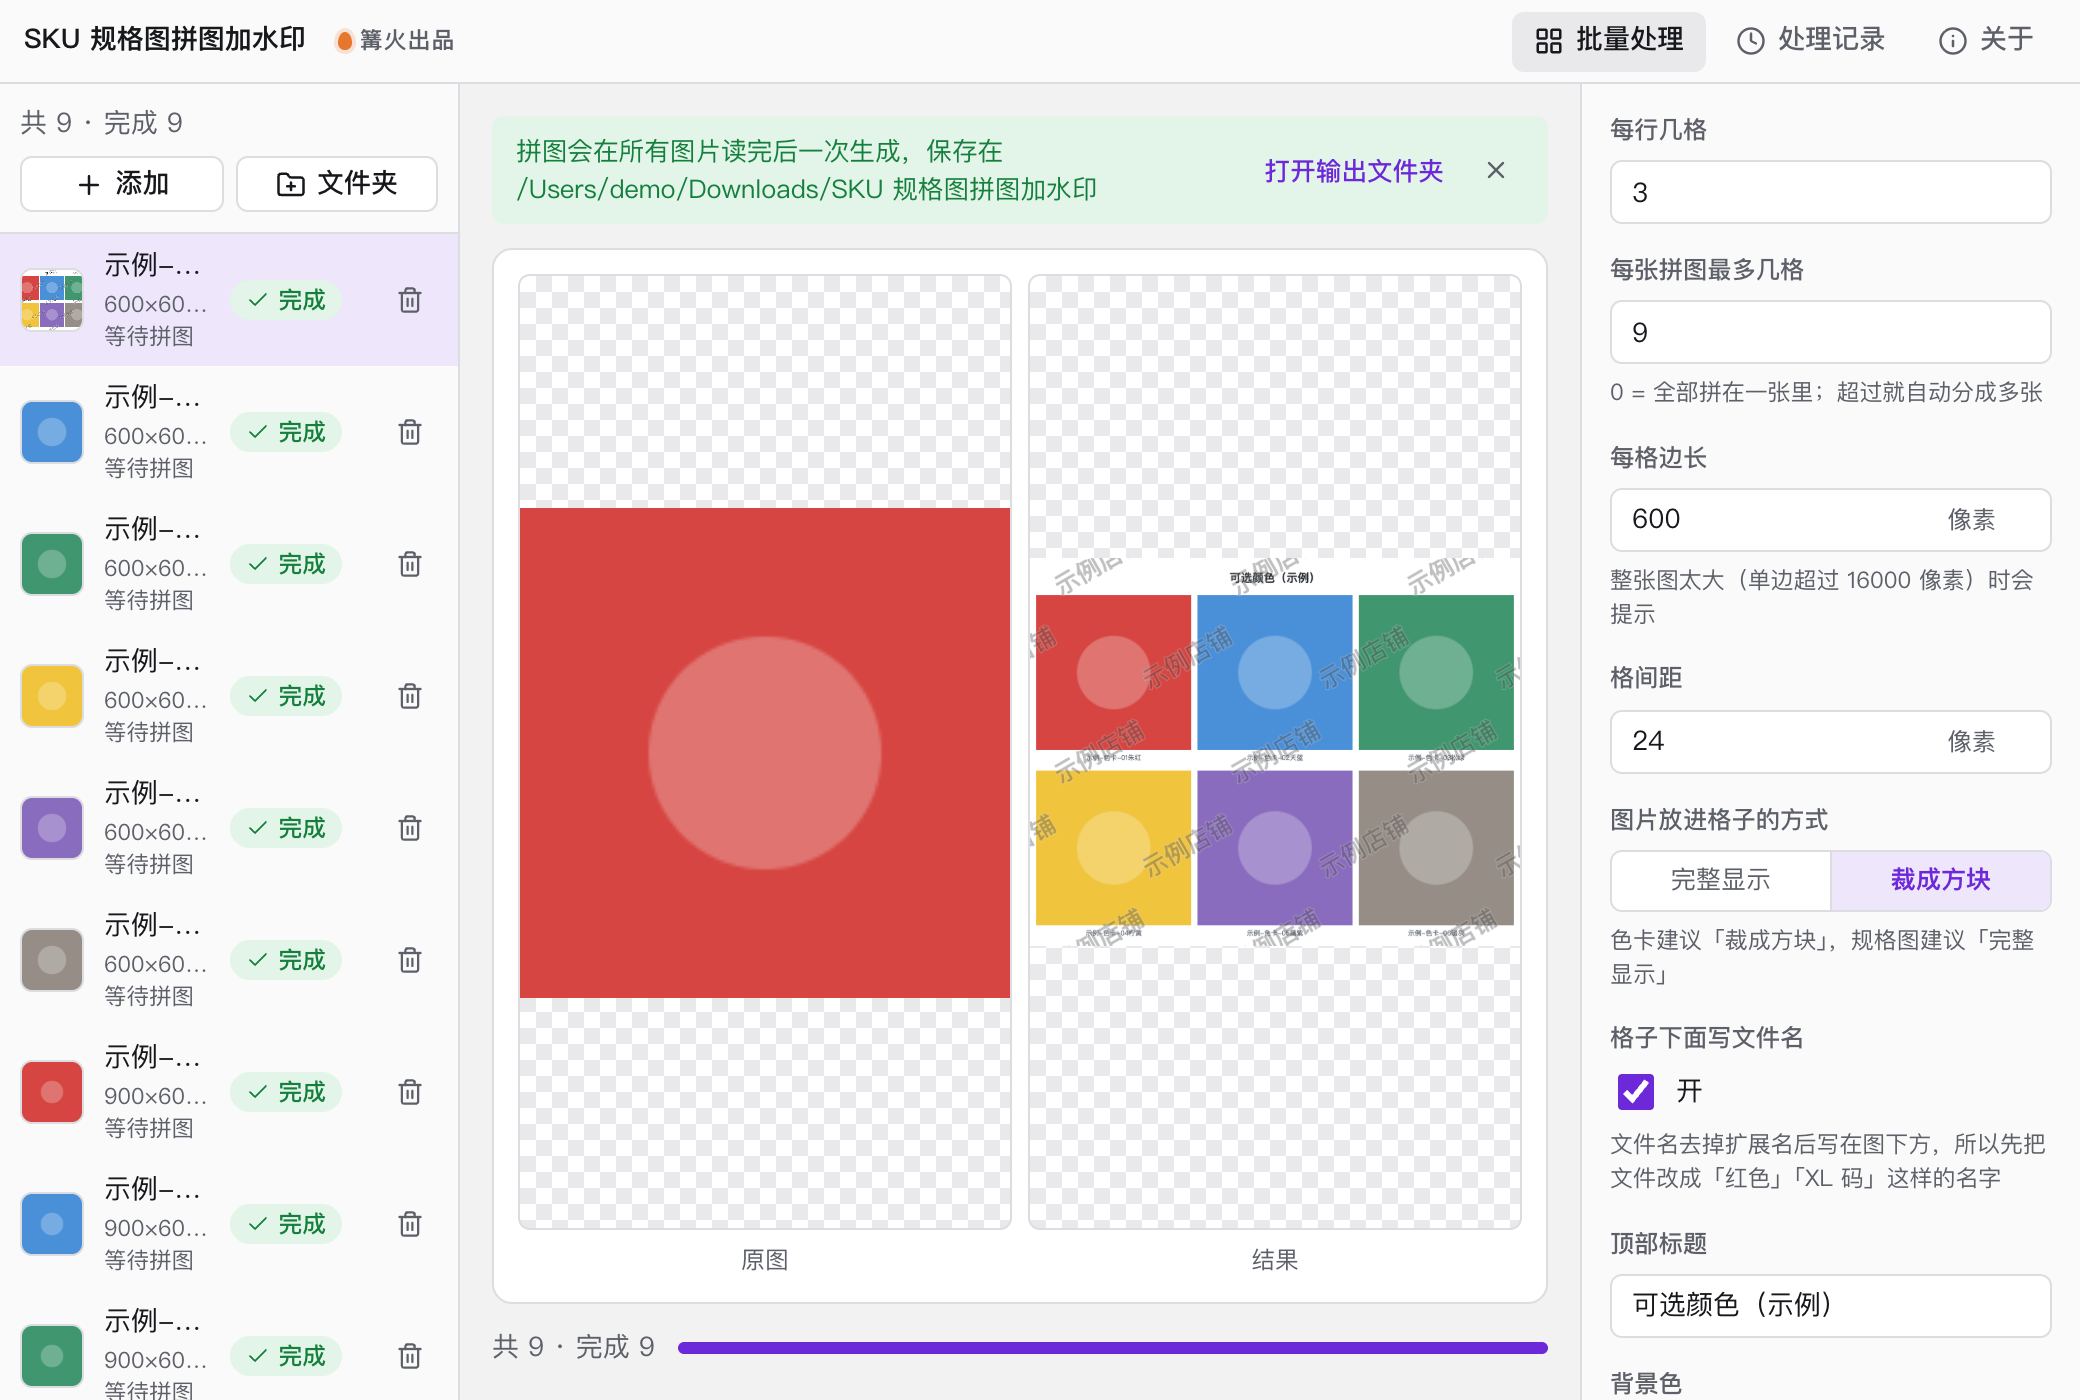
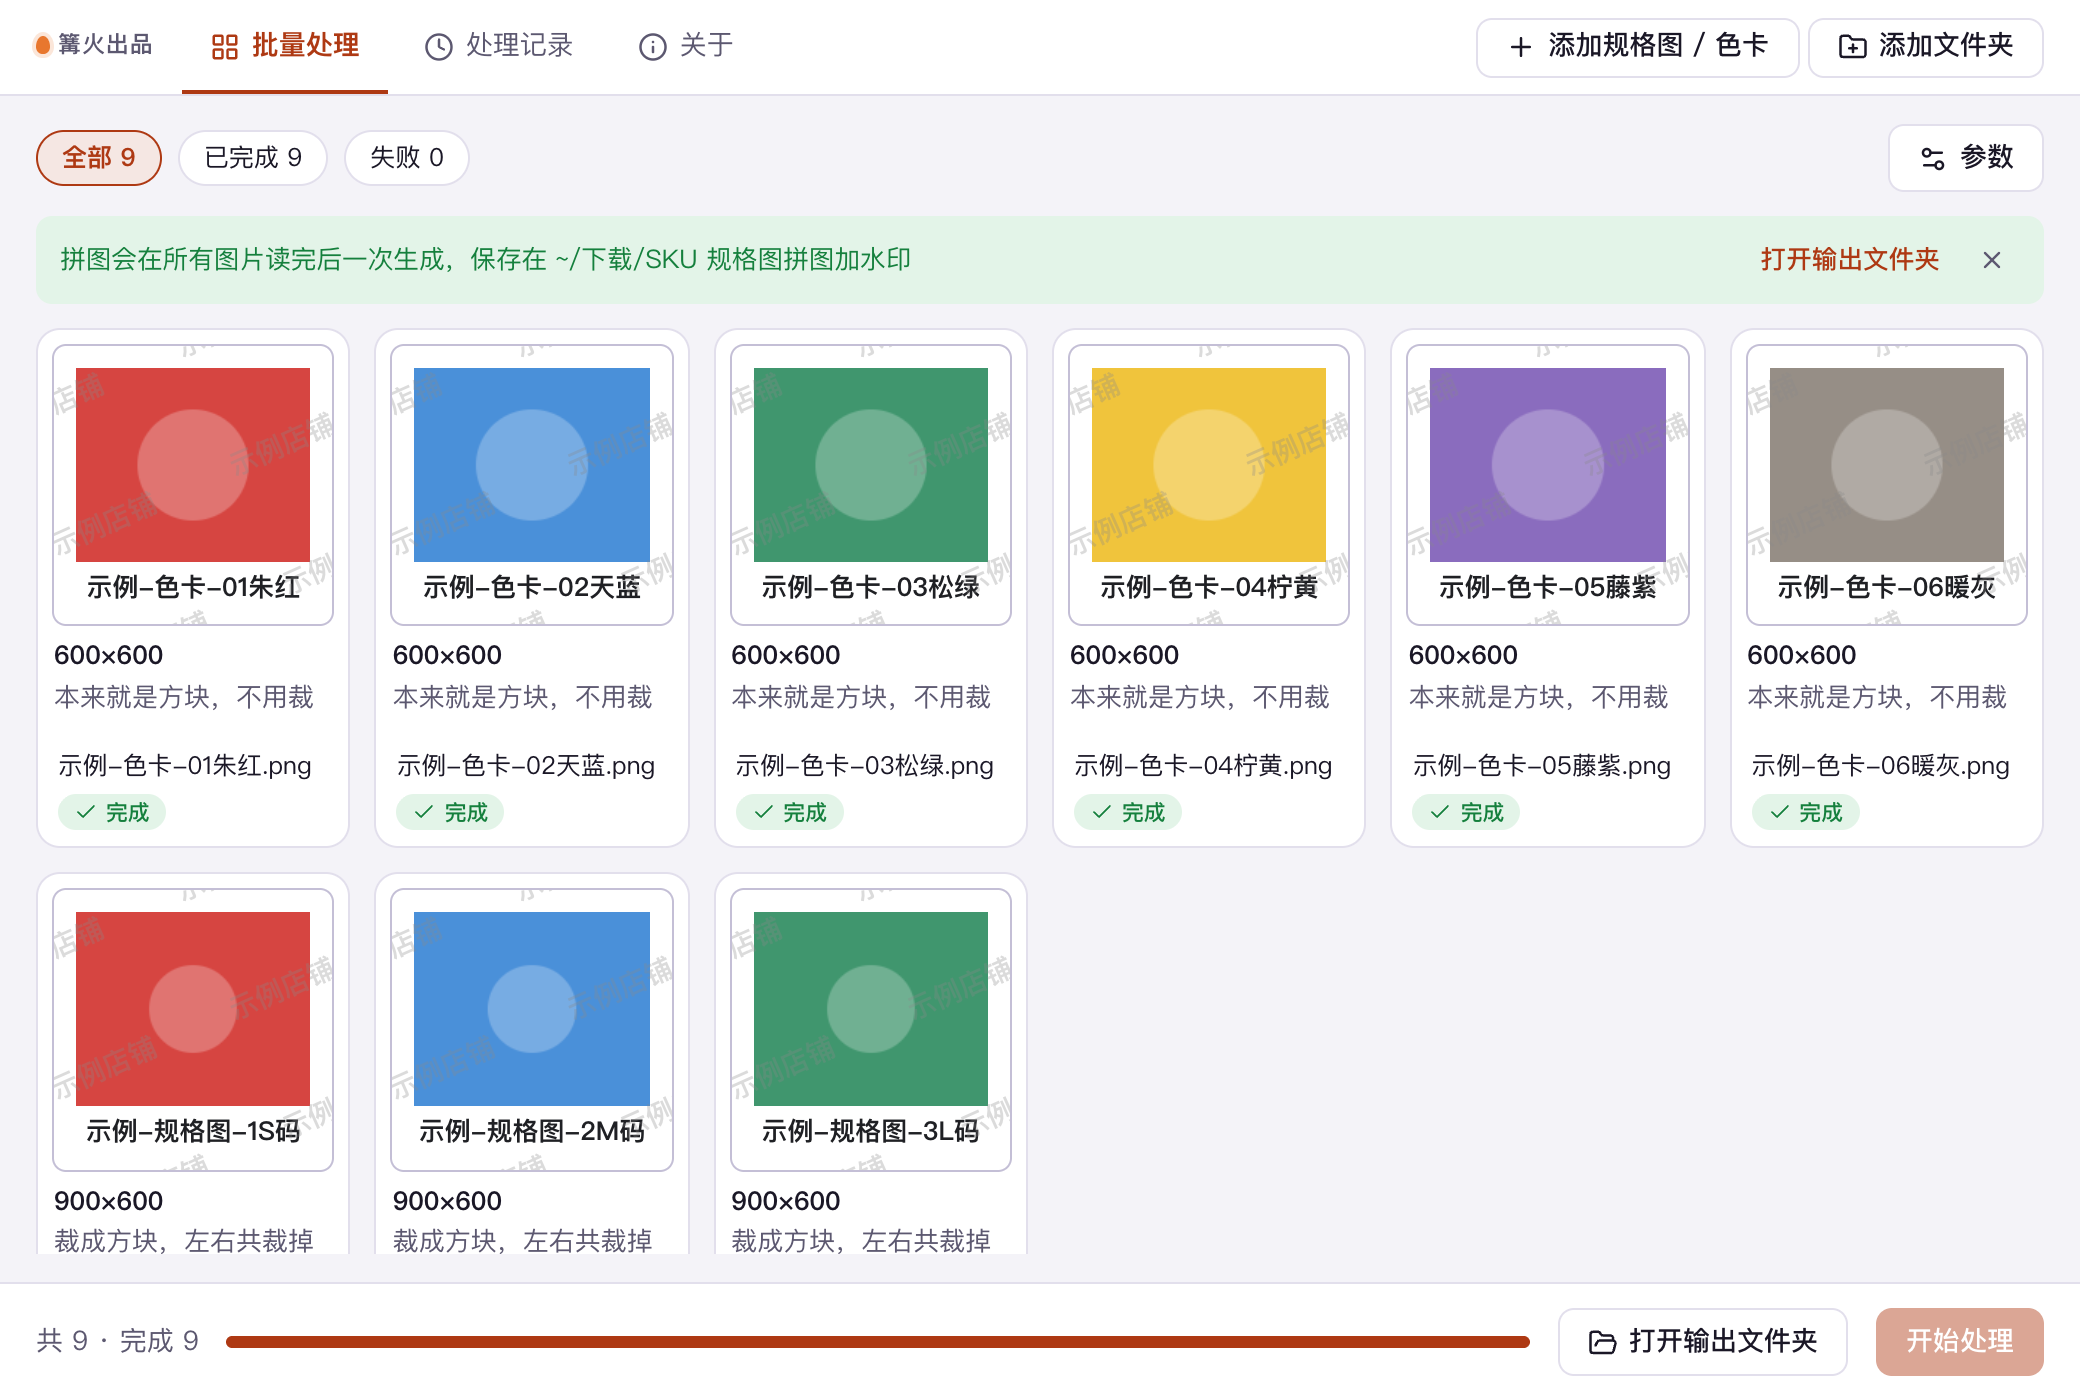
打磨界面：格子预览结果卡片、专属空状态、全中文 (0.2.0)

diff --git a/src/tool/ui.tsx b/src/tool/ui.tsx
@@ -1,0 +1,82 @@
+// 界面：空状态（一堆散图 → 一张带文件名和水印的拼图）和单张结果（这张图放进格子后的样子）。
+import { ArrowRight } from 'lucide-react';
+import type { InputItem, ItemResult } from '../kit/types';
+import { fileSrc } from '../kit/platform';
+import { SAMPLE_WATERMARK, SWATCHES } from './sample';
+import './tool.css';
+
+/** 随结果带出的明细，只用来画结果，不写入文件 */
+export interface CellData {
+  w: number;
+  h: number;
+  fit: 'contain' | 'cover';
+  caption: boolean;
+  bg: string;
+  wm: 'none' | 'text' | 'image';
+  wmText: string;
+  wmPosition: string;
+  wmOpacity: number;
+}
+
+const nameOf = (n: string) => n.replace(/\.[^.]+$/, '');
+const dark = (hex: string) => {
+  const v = parseInt(hex.slice(1), 16);
+  return ((v >> 16) * 299 + ((v >> 8) & 255) * 587 + (v & 255) * 114) / 1000 < 110;
+};
+
+export function Empty() {
+  const rgb = (c: [number, number, number]) => `rgb(${c.join(',')})`;
+  return (
+    <div className="sc-empty">
+      <div className="sc-empty-hd">
+        <h2>几张色卡规格图，拼成一张带名字的图</h2>
+        <p>按列表顺序排成网格，每格下面写文件名，再整张盖上水印；一张放不下就自动分成多张。</p>
+      </div>
+      <div className="sc-flow" aria-hidden="true">
+        <div className="sc-pile">
+          {SWATCHES.slice(0, 4).map((s, i) => (
+            <span key={s.name} className="sc-card" style={{ background: rgb(s.rgb), ['--i' as string]: i }} />
+          ))}
+        </div>
+        <ArrowRight size={22} className="sc-arrow" />
+        <div className="sc-sheet">
+          <b className="sc-sheet-title">可选颜色</b>
+          <div className="sc-grid">
+            {SWATCHES.map((s) => (
+              <span key={s.name} className="sc-slot"><i style={{ background: rgb(s.rgb) }} /><small>{s.name}</small></span>
+            ))}
+          </div>
+          <span className="sc-mark">{SAMPLE_WATERMARK}</span>
+        </div>
+      </div>
+    </div>
+  );
+}
+
+const MARK_POS: Record<string, string> = {
+  br: 'right: 6%; bottom: 6%', bl: 'left: 6%; bottom: 6%', tr: 'right: 6%; top: 6%', tl: 'left: 6%; top: 6%',
+  center: 'left: 50%; top: 50%; transform: translate(-50%, -50%)',
+};
+const posStyle = (p: string) => Object.fromEntries((MARK_POS[p] ?? MARK_POS.br).split('; ').map((s) => s.split(': '))) as React.CSSProperties;
+
+export function ResultBody({ item, result }: { item: InputItem; result: ItemResult }) {
+  const d = result.data as CellData | undefined;
+  if (!d) return <p className="sc-plain">{result.summary}</p>;
+  const long = Math.max(d.w, d.h);
+  const cut = Math.round((1 - Math.min(d.w, d.h) / long) * 100);
+  const how = d.fit === 'cover'
+    ? (cut > 0 ? `裁成方块，${d.w > d.h ? '左右' : '上下'}共裁掉 ${cut}%` : '本来就是方块，不用裁')
+    : (cut > 0 ? `完整显示，${d.w > d.h ? '上下' : '左右'}留空` : '完整显示，正好填满');
+  const light = !dark(d.bg);
+  return (
+    <figure className="sc-cell">
+      <div className="sc-cell-box" style={{ background: d.bg, color: light ? '#1F2024' : '#F3F4F6' }}>
+        <span className="sc-cell-img">{item.path && <img src={fileSrc(item.path)} alt="" style={{ objectFit: d.fit }} />}</span>
+        {d.caption && <span className="sc-cell-cap">{nameOf(item.name)}</span>}
+        {d.wm === 'text' && d.wmText && d.wmPosition !== 'tile' && <span className="sc-cell-mark" style={{ ...posStyle(d.wmPosition), opacity: d.wmOpacity / 100 }}>{d.wmText}</span>}
+        {d.wm === 'text' && d.wmText && d.wmPosition === 'tile' && <span className="sc-cell-tile" style={{ opacity: d.wmOpacity / 100 }}>{Array.from({ length: 6 }, (_, i) => <i key={i}>{d.wmText}</i>)}</span>}
+      </div>
+      <figcaption><b className="k-num">{d.w}×{d.h}</b><span className="k-muted">{how}</span></figcaption>
+    </figure>
+  );
+}

diff --git a/src/tool/tool.css b/src/tool/tool.css
@@ -1,0 +1,26 @@
+/* SKU 规格图拼图加水印：类名统一以 sc- 开头，只用 kit.css 的变量 */
+.sc-empty { display: flex; flex-direction: column; gap: 22px; padding: 26px 24px; background: var(--surface); border: 1px solid var(--line); border-radius: var(--radius-lg); }
+.sc-empty-hd h2 { margin: 0 0 6px; font-size: 1.4em; line-height: 1.3; color: var(--ink); }
+.sc-empty-hd p { margin: 0; color: var(--muted); line-height: 1.6; }
+.sc-flow { display: flex; align-items: center; justify-content: center; gap: 26px; flex-wrap: wrap; }
+.sc-arrow { color: var(--primary); flex: none; }
+.sc-pile { position: relative; width: 120px; height: 120px; }
+.sc-card { position: absolute; left: calc(var(--i) * 16px); top: calc(var(--i) * 10px); width: 64px; height: 64px; border-radius: 8px; border: 3px solid var(--surface); box-shadow: 0 4px 12px rgb(0 0 0 / .18); transform: rotate(calc(var(--i) * 5deg - 8deg)); }
+.sc-sheet { position: relative; padding: 12px 14px 32px; background: var(--chip); border: 1px solid var(--line-strong); border-radius: 8px; box-shadow: 0 8px 20px rgb(0 0 0 / .1); overflow: hidden; }
+.sc-sheet-title { display: block; margin-bottom: 8px; font-size: 13px; color: var(--ink); }
+.sc-grid { display: grid; grid-template-columns: repeat(3, 56px); gap: 8px 10px; }
+.sc-slot { display: flex; flex-direction: column; align-items: center; gap: 3px; }
+.sc-slot i { display: block; width: 56px; height: 56px; border-radius: 4px; }
+.sc-slot small { font-size: 12.5px; color: var(--ink); }
+.sc-mark { position: absolute; right: 12px; bottom: 7px; font-size: 14px; font-weight: 700; color: var(--primary); opacity: .55; }
+
+.sc-cell { margin: 0; display: flex; flex-direction: column; gap: 6px; width: 100%; }
+.sc-cell-box { position: relative; aspect-ratio: 1; display: flex; flex-direction: column; padding: 8%; gap: 4%; overflow: hidden; border-radius: 6px; box-shadow: 0 0 0 1px var(--line-strong); }
+.sc-cell-img { flex: 1; min-height: 0; display: block; }
+.sc-cell-img img { display: block; width: 100%; height: 100%; }
+.sc-cell-cap { flex: none; text-align: center; font-size: 13px; font-weight: 600; line-height: 1.2; overflow: hidden; text-overflow: ellipsis; white-space: nowrap; }
+.sc-cell-mark { position: absolute; font-size: 14px; font-weight: 700; white-space: nowrap; color: #888; }
+.sc-cell-tile { position: absolute; inset: -20%; display: grid; grid-template-columns: repeat(2, 1fr); align-content: space-around; justify-items: center; transform: rotate(-24deg); pointer-events: none; }
+.sc-cell-tile i { font-style: normal; font-size: 14px; font-weight: 700; color: #888; white-space: nowrap; }
+.sc-cell figcaption { display: flex; flex-direction: column; gap: 1px; font-size: 13px; }
+.sc-plain { margin: 0; color: var(--muted); }

diff --git a/src/tool/index.ts b/src/tool/index.ts
@@ -2,6 +2,7 @@
 import { LayoutGrid as LayoutGridAsIcon } from 'lucide-react';
 import type { BatchTool } from '../kit/types';
 import { composeAll, optionProblem, readOptions } from './flow';
+import { Empty, ResultBody, type CellData } from './ui';
 import { drawSheet, encodeCanvas, loadImage } from './render';
 
 const IMAGE_EXT = ['jpg', 'jpeg', 'png', 'webp', 'bmp', 'gif'];
@@ -15,6 +16,8 @@ const tool: BatchTool = {
   type: 'media',
   mode: 'batch',
   resultView: 'list',
+  Empty,
+  ResultBody,
   concurrency: 3,
   accept: { label: '规格图 / 色卡', extensions: IMAGE_EXT },
   params: [
@@ -23,7 +26,7 @@ const tool: BatchTool = {
     { key: 'cell', label: '每格边长', type: 'number', default: 600, min: 200, max: 1600, unit: '像素', help: '整张图太大（单边超过 16000 像素）时会提示' },
     { key: 'gap', label: '格间距', type: 'number', default: 24, min: 0, max: 120, unit: '像素' },
     { key: 'fit', label: '图片放进格子的方式', type: 'segment', options: [['contain', '完整显示'], ['cover', '裁成方块']], default: 'contain', help: '色卡建议「裁成方块」，规格图建议「完整显示」' },
-    { key: 'caption', label: '格子下面写文件名', type: 'toggle', default: true, help: '文件名去掉扩展名后写在图下方，所以先把文件改成「红色」「XL 码」这样的名字' },
+    { key: 'caption', label: '格子下面写文件名', type: 'toggle', default: true, help: '文件名去掉扩展名后写在图下方，所以先把文件改成「红色」「大码」这样的名字' },
     { key: 'title', label: '顶部标题', type: 'text', default: '', placeholder: '可选，例如：可选颜色' },
     { key: 'bg', label: '背景色', type: 'segment', options: [['#FFFFFF', '白色'], ['#F3F4F6', '浅灰'], ['#1F2024', '深色']], default: '#FFFFFF' },
     { key: 'wm', label: '水印', type: 'segment', options: [['none', '不加'], ['text', '文字'], ['image', '图片']], default: 'text' },
@@ -43,7 +46,9 @@ const tool: BatchTool = {
     const bad = optionProblem(readOptions(ctx.params));
     if (bad) throw new Error(bad);
     const img = await loadImage(await ctx.readFile(item.path!));
-    return { preview: item.path, summary: `${img.naturalWidth}×${img.naturalHeight}，等待拼图` };
+    const o = readOptions(ctx.params);
+    const data: CellData = { w: img.naturalWidth, h: img.naturalHeight, fit: o.fit, caption: o.caption, bg: o.bg, wm: o.wm, wmText: o.wmText, wmPosition: o.wmPosition, wmOpacity: o.wmOpacity };
+    return { preview: item.path, summary: `${img.naturalWidth}×${img.naturalHeight}，等待拼图`, data };
   },
 
   async afterAll(results, ctx) {

diff --git a/src/tool/preview.ts b/src/tool/preview.ts
@@ -3,6 +3,7 @@ import type { Params } from '../kit/types';
 import type { Row } from '../kit/runner';
 import { layoutFor, readOptions } from './flow';
 import { drawSheet } from './render';
+import type { CellData } from './ui';
 import { SAMPLE_WATERMARK, SWATCHES } from './sample';
 
 function swatchCanvas(rgb: [number, number, number], round = false) {
@@ -28,6 +29,8 @@ function realSheet() {
 
 const NAMES = [...SWATCHES.map((s, i) => `示例-色卡-${String(i + 1).padStart(2, '0')}${s.name}.png`), '示例-规格图-1S码.png', '示例-规格图-2M码.png', '示例-规格图-3L码.png'];
 
+const cell = (_name: string, i: number): CellData => ({ w: i < 6 ? 600 : 900, h: 600, fit: 'cover', caption: true, bg: '#FFFFFF', wm: 'text', wmText: SAMPLE_WATERMARK, wmPosition: 'tile', wmOpacity: 30 });
+
 export const rows = (state: string): Row[] => {
   if (state === 'empty') return [];
   return NAMES.map((name, i) => {
@@ -37,10 +40,10 @@ export const rows = (state: string): Row[] => {
       item: { id: `s${i}`, name, path: swatch(rgb, i >= 6), size: 180_000 + i * 21_000 },
       status,
       progress: status === 'run' ? 0.5 : status === 'ok' ? 1 : 0,
-      result: status === 'ok' ? { preview: i === 0 ? realSheet() : swatch(rgb, i >= 6), summary: i < 6 ? '600×600，等待拼图' : '900×600，等待拼图' } : undefined,
+      result: status === 'ok' ? { preview: i === 0 ? realSheet() : swatch(rgb, i >= 6), summary: i < 6 ? '600×600，等待拼图' : '900×600，等待拼图', data: cell(name, i) } : undefined,
     };
   });
 };
 
 export const params: Params = { columns: 3, perSheet: 9, fit: 'cover', caption: true, title: '可选颜色（示例）', wm: 'text', wmText: SAMPLE_WATERMARK, wmPosition: 'tile', wmOpacity: 30 };
-export const notice = { kind: 'ok' as const, text: '拼图会在所有图片读完后一次生成，保存在 /Users/demo/Downloads/SKU 规格图拼图加水印' };
+export const notice = { kind: 'ok' as const, text: '拼图会在所有图片读完后一次生成，保存在 ~/下载/SKU 规格图拼图加水印' };

diff --git a/CHANGELOG.md b/CHANGELOG.md
@@ -1,5 +1,11 @@
 # 更新记录
 
+## 0.2.0
+
+- 结果展示重做：每张图一张卡片，按当前设置显示放进格子后的样子（裁成方块或留空、格子下的文件名、水印位置）。
+- 空状态改为「几张色卡 → 一张带名字和水印的拼图」的示意。
+- 换成卡片网格版式，主色改为赭红；提示里的示例文件名改为中文。
+
 ## 0.1.0
 
 - 首个版本。
